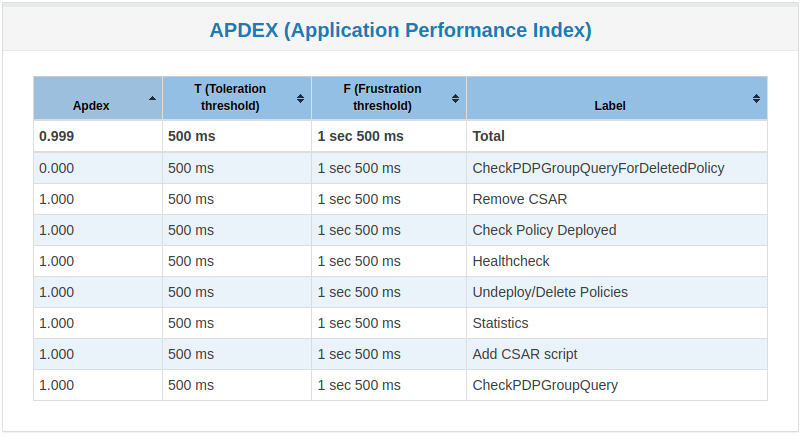
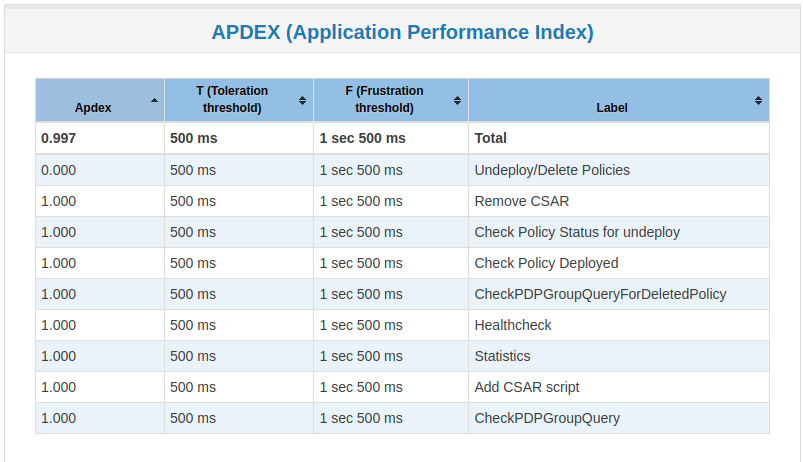
Distribution S3P testing results for Istanbul.
Issue-ID: POLICY-3654

diff --git a/docs/development/devtools/distribution-s3p.rst b/docs/development/devtools/distribution-s3p.rst
@@ -14,22 +14,16 @@ VM Details
 ----------
 
 The stability and performance tests are performed on VM's running in the OpenStack cloud
-environment in the ONAP integration lab. There are two separate VMs, one for running backend policy
-services which policy distribution needs, and the other for the policy distribution service itself
-and Jmeter.
+environment in the ONAP integration lab.
 
-**OpenStack environment details**
+**Policy VM details**
 
-- Version: Windriver Titanium
-
-**Policy Backend VM details (VM1)**
-
-- OS: Ubuntu 18.04.5 LTS
-- CPU: 8 core, Intel Xeon E3-12xx v2 (Ivy Bridge), 2693.668 MHz, 16384 kB cache
-- RAM: 32 GB
-- HardDisk: 200 GB
-- Docker version 19.03.8, build afacb8b7f0
-- Java: openjdk 11.0.8 2020-07-14
+- OS: Ubuntu 18.04 LTS (GNU/Linux 4.15.0-151-generic x86_64)
+- CPU: 4 core
+- RAM: 15 GB
+- HardDisk: 39 GB
+- Docker version 20.10.7, build 20.10.7-0ubuntu1~18.04.2
+- Java: openjdk 11.0.11 2021-04-20
 
 
 Common Setup
@@ -52,9 +46,9 @@ Ensure that the Java version that is executing is OpenJDK version 11
 .. code-block:: bash
 
     $ java --version
-    openjdk 11.0.8 2020-07-14
-    OpenJDK Runtime Environment (build 11.0.8+10-post-Ubuntu-0ubuntu118.04.1)
-    OpenJDK 64-Bit Server VM (build 11.0.8+10-post-Ubuntu-0ubuntu118.04.1, mixed mode, sharing)
+    openjdk 11.0.11 2021-04-20
+    OpenJDK Runtime Environment (build 11.0.11+9-Ubuntu-0ubuntu2.18.04)
+    OpenJDK 64-Bit Server VM (build 11.0.11+9-Ubuntu-0ubuntu2.18.04, mixed mode)
 
 Install Docker and Docker Compose
 
@@ -223,14 +217,14 @@ This will load up the visualVM GUI
 
 Connect to Distribution JMX Port.
 
-    1. Right click on "Local" in the left panel of the screen and select "Add JMX Connection"
+    1. On the visualvm toolbar, click on "Add JMX Connection"
     2. Enter the Distribution container IP and Port 9090. This is the JMX port exposed by the
        distribution container
-    3. Double click on the newly added nodes under "Local" to start monitoring CPU, Memory & GC.
+    3. Double click on the newly added nodes under "Remotes" to start monitoring CPU, Memory & GC.
 
 Example Screenshot of visualVM
 
-.. image:: images/distribution/distribution-s3p-vvm-sample.png
+.. image:: images/distribution/distribution-visualvm-snapshot.png
 
 
 Stability Test of Policy Distribution
@@ -261,11 +255,10 @@ The 72h stability test will run the following steps sequentially in a single thr
 - **Add CSAR** - Adds CSAR to the directory that distribution is watching
 - **Get Healthcheck** - Ensures Healthcheck is returning 200 OK
 - **Get Statistics** - Ensures Statistics is returning 200 OK
-- **CheckPDPGroupQuery** - Checks that PDPGroupQuery contains the deployed policy
-- **CheckPolicyDeployed** - Checks that the policy is deployed
-- **Undeploy Policy** - Undeploys the policy
-- **Delete Policy** - Deletes the Policy for the next loop
-- **Check PDP Group for Deletion** - Ensures the policy has been removed and does not exist
+- **Assert PDP Group Query** - Checks that PDPGroupQuery contains the deployed policy
+- **Assert PoliciesDeployed** - Checks that the policy is deployed
+- **Undeploy/Delete Policy** - Undeploys and deletes the Policy for the next loop
+- **Assert PDP Group Query for Deleted Policy** - Ensures the policy has been removed and does not exist
 
 The following steps can be used to configure the parameters of the test plan.
 
@@ -285,7 +278,7 @@ The following steps can be used to configure the parameters of the test plan.
 
 Screenshot of Distribution stability test plan
 
-.. image:: images/distribution/distribution-s3p-testplan.png
+.. image:: images/distribution/distribution-jmeter-testcases.png
 
 
 Running the Test Plan
@@ -294,6 +287,11 @@ Running the Test Plan
 Check if the /tmp/policydistribution/distributionmount exists as it was created during the start.sh
 script execution. If not, run the following commands to create folder and change folder permissions
 to allow the testplan to insert the CSAR into the /tmp/policydistribution/distributionmount folder.
+
+.. note::
+    Make sure that only csar file is being loaded in the watched folder and log generation is in a
+    logs folder, as any sort of zip file can be understood by distribution as a policy file. A
+    logback.xml configuration file is available under setup/distribution folder.
 
 .. code-block:: bash
 
@@ -324,13 +322,13 @@ Test Results
 
 **Test Statistics**
 
-.. image:: images/distribution/dist_stability_statistics.PNG
-.. image:: images/distribution/dist_stability_threshold.PNG
+.. image:: images/distribution/stability-statistics.png
+.. image:: images/distribution/stability-threshold.png
 
 **VisualVM Screenshots**
 
-.. image:: images/distribution/dist_stability_monitor.PNG
-.. image:: images/distribution/dist_stability_threads.PNG
+.. image:: images/distribution/stability-monitor.png
+.. image:: images/distribution/stability-threads.png
 
 
 Performance Test of Policy Distribution
